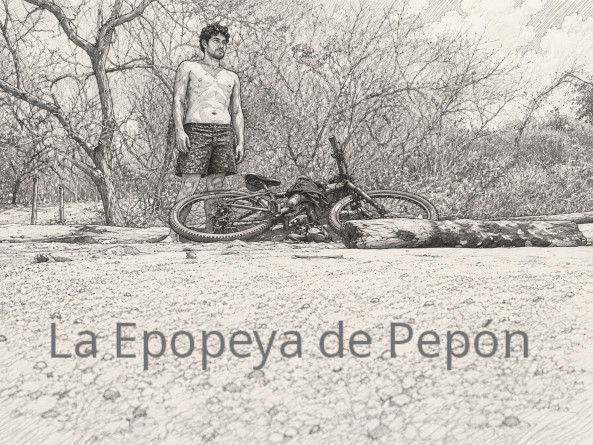
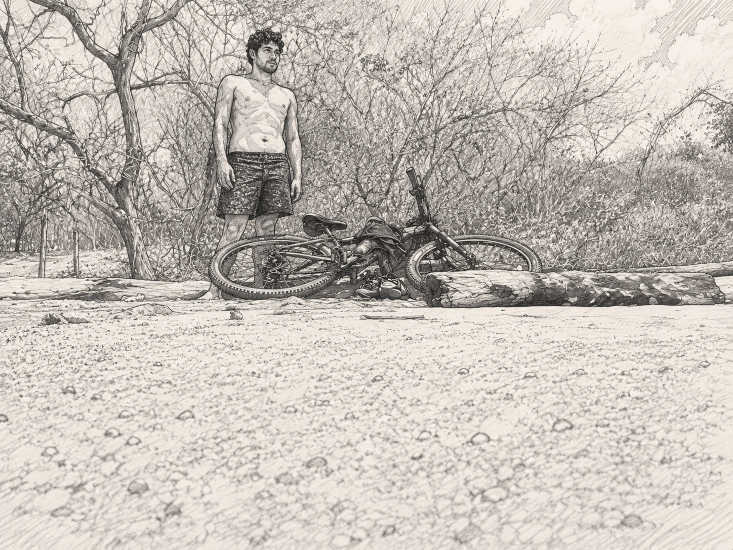
cambios a texto y img en el hero

Changed region(s): [[0.0607, 0.7011, 0.9106, 0.8472], [0.6678, 0.4674, 0.6981, 0.4966]]

diff --git a/lib/projects.ts b/lib/projects.ts
@@ -3,7 +3,7 @@
 // Los proyectos `featured: true` tienen un `caseStudy` completo y su propia página
 // en /projects/[slug]. El resto se muestra en la lista compacta "Más proyectos".
 //
-// ⚠ MÉTRICAS: los borradores de abajo se redactaron desde los READMEs de los repos.
+//  MÉTRICAS: los borradores de abajo se redactaron desde los READMEs de los repos.
 // Las afirmaciones son verdaderas, pero faltan NÚMEROS DUROS (tiempos, %, nº de clientes,
 // volumen procesado). Búscalos marcados con "TODO(jc)" y reemplázalos por datos reales:
 // una métrica concreta es la señal #1 de credibilidad ante un reclutador o cliente.
@@ -67,7 +67,7 @@ export const projects: Project[] = [
     description:
       "Sistema de reclutamiento potenciado por IA que analiza currículums y los compara con los puestos definidos por cada cliente, para encontrar al talento ideal de forma más rápida, objetiva y privada.",
     tags: ["Python", "FastAPI", "PostgreSQL", "Ollama", "Embeddings", "LLM local", "Ministral 3 8B"],
-    image: "ixtli-logo-chico.png",
+    image: "ixtli.png",
     imageContain: true,
     github: "https://github.com/Chinaskidev/agent-resume-analyzer",
     featured: true,

diff --git a/components/hero-section.tsx b/components/hero-section.tsx
@@ -20,10 +20,10 @@ export function HeroSection() {
          Actualmente soy fundandor de {" "}
         <span className="text-foreground">Yultic</span> y co-fundandor de{" "}
         <span className="text-foreground">Skinner</span>.
-        Esta ultima fue mi mayor escuela, donde aprendí a construir productos digitales desde cero, 
-        liderar equipos y entender las necesidades del mercado.
+        Esta ultima ha sido mi mayor escuela, donde he aprendido a construir productos digitales desde cero, 
+        liderar al equipo y entender las necesidades del mercado.
         Y es asi como he llegado a donde estoy hoy, con {" "} <span className="text-foreground">Yultic</span>, 
-        mi proyecto actual, donde aplico todo lo que he aprendido 
+        y {" "} <span className="text-foreground">Skinner</span> y en ambas aplico todo lo que he aprendido 
         para crear soluciones innovadoras y de impacto para Pymes.
       </p>
 

diff --git a/lib/relato.ts b/lib/relato.ts
@@ -38,7 +38,7 @@ export type Relato = {
 }
 
 export const relato: Relato = {
-  title: "La Epopeya de Pepón",
+  title: "Antes de los Siete Años",
   tagline: "No elegí esta aventura. Me ocurrió.",
   autor: "JCarloV",
   cover: "relato-portada.jpg",
@@ -59,7 +59,7 @@ export const relato: Relato = {
   ],
 
   cta: {
-    url: "https://jcarlov.gumroad.com/l/jhcxcc",
+    url: "https://jcarlov.gumroad.com/l/sivar",
     label: "Seguir leyendo / descargar",
     price: "$5.00 USD",
     formats: ["PDF"],
